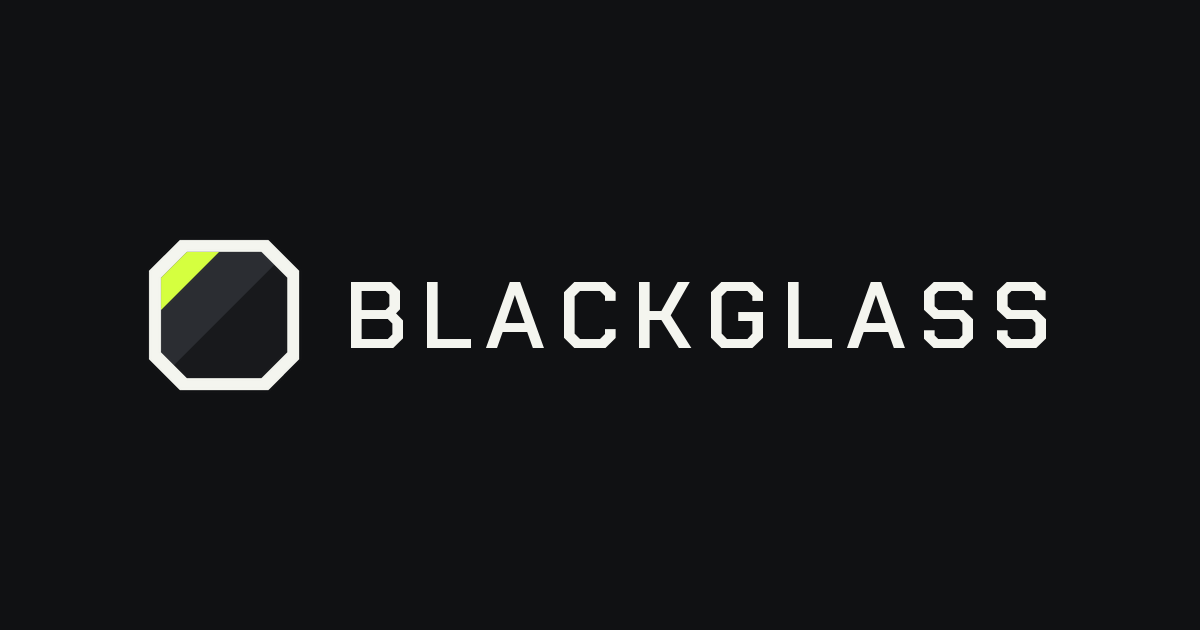
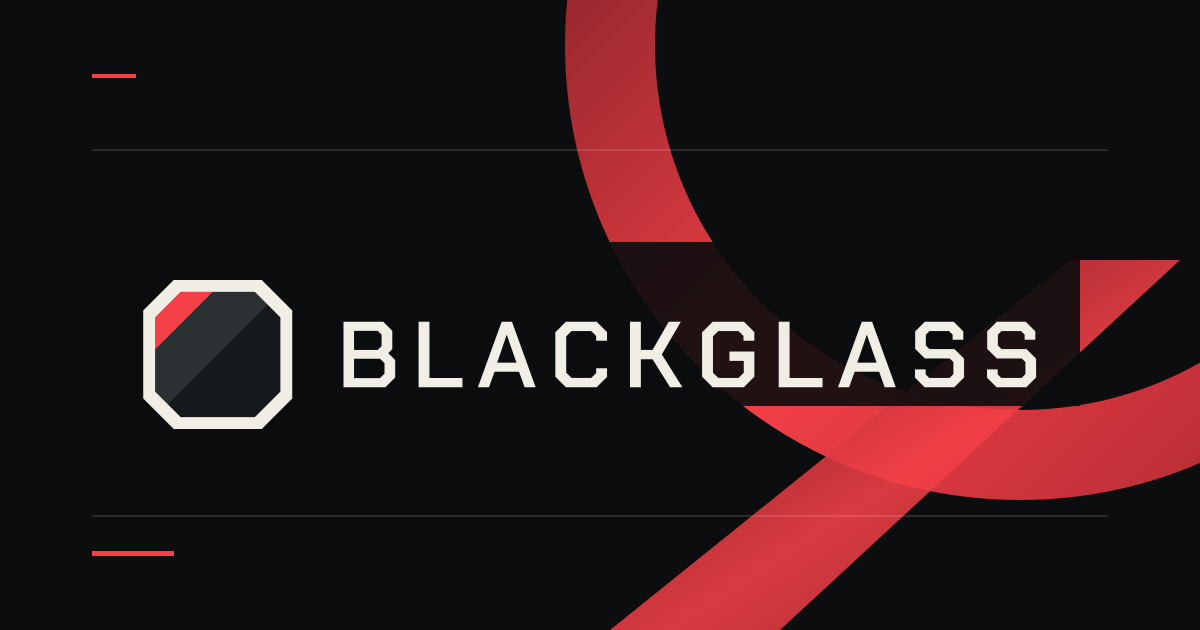
Bring Blackglass website into crimson poster system

Changed region(s): [[0.0925, 0.3619, 1.0, 1.0], [0.0925, 0.0, 0.8942, 0.3921], [0.0617, 0.8746, 0.1542, 0.9048]]

diff --git a/app/site.css b/app/site.css
@@ -35,7 +35,7 @@ a, button, summary, [role="tab"], label { -webkit-tap-highlight-color: transpare
 
 /* ---- Type: five sizes ---- */
 .label { margin: 0; font: 500 var(--fs-label)/1.4 var(--font-mono); letter-spacing: var(--tr-label); text-transform: uppercase; color: var(--fg-3); }
-.display { font-weight: 600; font-size: var(--fs-display); line-height: 1.1; letter-spacing: var(--tr-display); text-transform: uppercase; }
+.display { font-weight: 750; font-size: var(--fs-display); line-height: .98; letter-spacing: -.035em; text-transform: uppercase; }
 .title { font-weight: 500; font-size: var(--fs-title); line-height: 1.3; letter-spacing: -.01em; }
 .monument { font-weight: 800; font-size: var(--fs-monument); line-height: .8; letter-spacing: var(--tr-monument); font-variant-numeric: tabular-nums; }
 .body-2 { color: var(--fg-2); max-width: 40em; }
@@ -57,7 +57,8 @@ a, button, summary, [role="tab"], label { -webkit-tap-highlight-color: transpare
 
 /* Section header: 01 — TITLE ———— meta */
 .sh { display: flex; align-items: center; gap: 12px; margin: 0 0 clamp(24px, 4vw, 40px); }
-.sh-i { color: var(--fg); }
+.sh-i { color: var(--c-volt); }
+.paper .sh-i { color: var(--fg); }
 .sh-dash { width: 16px; border-top: var(--hair) solid var(--rule-strong); }
 .sh-rule { flex: 1; min-width: 24px; border-top: var(--hair) solid var(--rule); }
 .sh-meta { white-space: nowrap; }
@@ -73,7 +74,7 @@ a, button, summary, [role="tab"], label { -webkit-tap-highlight-color: transpare
 
 /* ---- Actions ---- */
 .btn { position: relative; isolation: isolate; display: inline-flex; align-items: center; justify-content: space-between; gap: 18px; min-height: 48px; padding: 0 20px; border: 0; background: none; color: var(--fg); cursor: pointer; text-decoration: none; white-space: nowrap;
-  font: 600 .8125rem/1 var(--font-sans); letter-spacing: .06em; text-transform: uppercase; -webkit-tap-highlight-color: transparent; transition: transform var(--t-drive) var(--ease-expo); }
+  font: 750 .8125rem/1 var(--font-sans); letter-spacing: .035em; text-transform: uppercase; -webkit-tap-highlight-color: transparent; transition: transform var(--t-drive) var(--ease-expo); }
 .btn::before, .btn::after { content: ""; position: absolute; z-index: -1; clip-path: var(--chamfer); }
 .btn::before { inset: 0; }
 .btn .arrow { width: 14px; height: 14px; flex: none; transition: transform var(--t-drive) var(--ease-expo); }
@@ -90,9 +91,10 @@ a, button, summary, [role="tab"], label { -webkit-tap-highlight-color: transpare
 .btn:active::before, .btn[data-press]::before { transform: none; }
 .btn:active .arrow, .btn[data-press] .arrow { transform: translate(4px, -4px); }
 .btn:active .arrow-down, .btn[data-press] .arrow-down { transform: rotate(90deg) translate(4px, -4px); }
-/* Chamfered fill: volt on Glass, ink on Paper (the --action token switches with the ground). */
+/* Chamfered fill: crimson on Glass, ink on Paper (the --action token switches with the ground). */
 .btn-primary { color: var(--on-action); }
 .btn-primary::before { background: var(--action); }
+.btn-primary::after { inset: 0; pointer-events: none; background: linear-gradient(128deg, transparent 78%, rgba(255, 255, 255, .17) 78% 80%, transparent 80%); }
 /* Hairline chamfer. */
 .btn-ghost::before { background: var(--rule-strong); transition: background-color var(--t-load) var(--ease-load); }
 .btn-ghost::after { inset: var(--hair); background: var(--ground); --cut: 9.6px; }
@@ -118,6 +120,7 @@ a, button, summary, [role="tab"], label { -webkit-tap-highlight-color: transpare
 
 /* ---- Header ---- */
 .hdr { position: sticky; top: 0; z-index: 70; display: flex; align-items: center; gap: 16px; height: 64px; padding: 0 var(--gutter); background: var(--c-glass); border-bottom: var(--hair) solid var(--rule); }
+.hdr::before { content: ""; position: absolute; left: var(--gutter); bottom: -1px; width: 42px; height: 2px; background: var(--c-volt); }
 .hdr-brand { display: block; margin-right: auto; }
 .hdr-brand img { height: 22px; width: auto; }
 .hdr-mark { display: none; }
@@ -194,7 +197,7 @@ a, button, summary, [role="tab"], label { -webkit-tap-highlight-color: transpare
 .msg { position: relative; margin-top: 20px; padding: 16px 18px 16px 20px; background: var(--c-facet); }
 .msg::before { content: ""; position: absolute; left: 0; top: 0; bottom: 0; width: 2px; background: var(--c-volt); transform-origin: 50% 0; }
 .msg.error::before { background: var(--c-danger); }
-/* Set logged: only after the server confirms (site.js adds .is-ok), the volt rule locks in top to bottom. */
+/* Set logged: only after the server confirms (site.js adds .is-ok), the signal rule locks in top to bottom. */
 @media (prefers-reduced-motion: no-preference) { .msg.is-ok::before { animation: lock-in var(--t-drive) var(--ease-expo) both; } }
 @keyframes lock-in { from { transform: scaleY(0); } }
 .msg p { margin: 0; }
@@ -333,8 +336,9 @@ a, button, summary, [role="tab"], label { -webkit-tap-highlight-color: transpare
 .crumbs a { color: var(--fg-3); text-decoration: none; }
 .crumbs a:hover { color: var(--fg); }
 .spec .actions { margin-top: 8px; }
-.page-hero { padding: clamp(56px, 9vw, 120px) 0 clamp(48px, 7vw, 88px); border-bottom: var(--hair) solid var(--rule); }
-.page-hero h1 { margin: 0 0 24px; max-width: 22em; font-size: clamp(2.25rem, 1rem + 4vw, 4.25rem); font-weight: 650; line-height: .98; letter-spacing: -.012em; }
+.page-hero { position: relative; isolation: isolate; overflow: hidden; padding: clamp(56px, 9vw, 120px) 0 clamp(48px, 7vw, 88px); border-bottom: var(--hair) solid var(--rule); }
+.page-hero::before { content: ""; position: absolute; z-index: -1; top: -390px; right: -260px; width: 720px; height: 720px; border: 72px solid var(--c-volt); border-radius: 50%; opacity: .13; pointer-events: none; }
+.page-hero h1 { margin: 0 0 24px; max-width: 22em; font-size: clamp(2.25rem, 1rem + 4vw, 4.25rem); font-weight: 800; line-height: .91; letter-spacing: -.045em; text-transform: uppercase; }
 /* The paid page is never quieter than home. */
 [data-page="coaching"] .page-hero h1 { font-size: clamp(2.625rem, 1.2rem + 5.2vw, 5.25rem); }
 .split { display: grid; gap: 48px; }
@@ -456,6 +460,7 @@ html:not(.js) .pc-t { color: var(--fg); }
     linear-gradient(to bottom right, transparent calc(50% - .25px), var(--line) calc(50% - .25px), var(--line) calc(50% + .75px), transparent calc(50% + .75px)) calc(100% + 1px) calc(100% + 1px) / 20px 20px no-repeat; }
 .offer-card > .spec-k { min-height: 32px; }
 .offer-card.paper { z-index: 61; } /* lifts the Paper card above the page grid (z 60): no hairline runs through it */
+.offer-card.paper::after { content: ""; position: absolute; top: 0; right: 0; width: 36%; height: 8px; background: var(--c-volt); clip-path: polygon(10% 0, 100% 0, 100% 100%, 0 100%); }
 .offer-steps-short { margin: 24px 0 0; color: var(--fg-2); }
 @media (max-width: 899.98px) { .offer-steps { display: none; } }
 @media (min-width: 900px) { .offer-steps-short { display: none; } }
@@ -587,7 +592,7 @@ html:not(.js) .pc-t { color: var(--fg); }
   .gauge i { position: absolute; right: 0; height: var(--hair); width: 6px; background: rgba(255, 255, 255, .38); }
   .gauge i.M { width: 14px; background: rgba(255, 255, 255, .7); }
   .gauge-sq { position: fixed; z-index: 46; right: 40px; top: 50%; display: block; width: var(--signal-size); height: var(--signal-size); translate: 0 -3px; background: var(--c-volt); outline: var(--hair) solid var(--c-glass); pointer-events: none; transition: transform var(--t-drive) var(--ease-expo), opacity var(--t-snap); }
-  /* One volt per viewport: the square rests while the hero, the reel or the closer holds the screen. */
+  /* One signal per viewport: the square rests while the hero, the reel or the closer holds the screen. */
   .gauge-sq[data-quiet], html[data-reel-in] .gauge-sq { opacity: 0; }
 }
 
@@ -614,8 +619,8 @@ html:not(.js) .pc-t { color: var(--fg); }
 /* ---- Motion. Content is complete on first paint: nothing waits to be revealed, nothing moves on load or on
    scroll. Motion answers the visitor (hover, focus, a tab, a page change) or lives in the showreel. ---- */
 
-/* Hero screen (1100px and up). Still, in full colour, cropped below its own volt button so the hero's one volt is
-   the real action. The headline is set large enough that the two columns meet with no void between them. */
+/* Hero screen (1100px and up). Still, in full colour, cropped below its own app button. The headline is set
+   large enough that the two columns meet with no void between them. */
 .hero { position: relative; overflow: hidden; }
 @media (min-width: 1100px) {
   .hero { padding: clamp(56px, 6vw, 88px) 0; }
@@ -630,6 +635,34 @@ html:not(.js) .pc-t { color: var(--fg); }
    the LCP image is painted from the first frame; no JavaScript involved. */
 @keyframes pane-drive { from { transform: translateX(24px); } }
 @media (min-width: 1100px) and (prefers-reduced-motion: no-preference) { .hero-pane .pane-glass { animation: pane-drive var(--t-load) var(--ease-load) both; } }
+
+/* Poster field: one engineered crimson arc and one diagonal plane. Both sit behind the actual app screen and copy.
+   The rest of the reference's tiny marks become a single factual rail, so the page stays legible on phones. */
+.hero { isolation: isolate; background: var(--c-glass); border-bottom: var(--hair) solid var(--rule); }
+.hero::before { content: ""; position: absolute; z-index: -1; top: -26vw; right: -15vw; width: min(88vw, 1120px); aspect-ratio: 1; border-radius: 50%; pointer-events: none;
+  background: radial-gradient(circle, var(--c-glass) 0 55%, transparent 55.2%), linear-gradient(142deg, #671c23 0%, var(--c-volt) 45%, #a52831 100%); }
+.hero::after { content: ""; position: absolute; z-index: -1; right: -8vw; bottom: -12vw; width: 60vw; height: 34vw; pointer-events: none; opacity: .82;
+  clip-path: polygon(72% 0, 84% 0, 19% 100%, 0 100%); background: linear-gradient(115deg, var(--c-ember), var(--c-volt)); }
+.hero-grid { position: relative; z-index: 1; }
+.hero-kicker { margin: 0 0 24px; color: var(--fg-2); }
+.hero-kicker span { margin-right: 12px; color: var(--c-volt); font-weight: 700; letter-spacing: -.08em; }
+.hero h1 { max-width: 11ch; font-weight: 850; line-height: .86; letter-spacing: -.058em; text-transform: uppercase; }
+.hero .body-2 { max-width: 36ch; }
+.poster-rail { position: relative; z-index: 1; display: flex; align-items: center; justify-content: space-between; gap: 24px; padding-top: 16px; padding-bottom: 16px; margin-top: clamp(38px, 6vw, 80px);
+  border-top: var(--hair) solid var(--rule-strong); color: var(--fg-2); }
+.poster-rail span:first-child { color: var(--fg); }
+.poster-rail span:last-child { color: var(--c-volt); font-weight: 700; font-size: 1rem; letter-spacing: -.1em; }
+.hero-pane .pane-glass { background: linear-gradient(140deg, var(--c-volt), var(--c-facet) 15%); }
+@media (max-width: 1099.98px) {
+  .hero::before { top: -42vw; right: -49vw; width: 105vw; opacity: .8; }
+  .hero::after { right: -30vw; bottom: -28vw; width: 90vw; height: 60vw; opacity: .42; }
+}
+@media (max-width: 599.98px) {
+  .hero::before { top: -62vw; right: -72vw; width: 140vw; opacity: .6; }
+  .hero::after { right: -55vw; bottom: -42vw; width: 130vw; height: 80vw; opacity: .25; }
+  .hero h1 { font-size: clamp(2.8rem, 11.7vw, 4.3rem); max-width: 10ch; }
+  .poster-rail span:nth-child(2) { display: none; }
+}
 
 /* Phone action bar (components/site/chrome.tsx StickyCta, site.js). Drives in, loads out, never covers the fork,
    a form or the footer. Hidden without JavaScript and from 900px. */

diff --git a/app/tokens.css b/app/tokens.css
@@ -11,16 +11,16 @@
 
 :root {
   /* Palette. Signal colours are used in small doses: one loud colour per viewport. */
-  --c-glass: #101113;   /* home ground */
-  --c-pane: #18191c;    /* black-glass objects, raised surfaces */
-  --c-facet: #2b2d32;   /* the lit facet; object frames on Glass */
-  --c-bone: #f4f5ef;    /* text on Glass; the specular edge */
-  --c-bone-2: #c3c6c0;  /* body text on Glass, 10.9:1 */
-  --c-bone-3: #a4a9ae;  /* labels on Glass, 8.0:1 */
+  --c-glass: #0b0d0e;   /* poster-black ground */
+  --c-pane: #15191b;    /* black-glass objects, raised surfaces */
+  --c-facet: #2b3032;   /* the lit facet; object frames on Glass */
+  --c-bone: #f1eee6;    /* warm printed bone on Glass */
+  --c-bone-2: #c8c6c0;  /* body text on Glass */
+  --c-bone-3: #aaa9a4;  /* labels on Glass */
   --c-paper: #eceae3;   /* the counter-surface: warm bone, ink 15.7:1 */
   --c-ink-2: #45484d;   /* body text and labels on Paper, 7.6:1 */
-  --c-volt: #d5ff3f;    /* the signal: markers, active states, one line per frame. On Paper: fills inside ink only. */
-  --c-ember: #de7f4e;   /* rare: one moment per page. Fill only; never text on Paper (2.4:1). */
+  --c-volt: #f43f46;    /* crimson signal: actions, active states and one graphic form per view. */
+  --c-ember: #b72f36;   /* deeper red for tonal artwork; never a second signal. */
   --c-danger: #ff8a80;  /* form errors on Glass */
 
   /* Ground: Glass. Sections set `.paper` to switch every semantic token below. */
@@ -29,9 +29,9 @@
   --fg: var(--c-bone);
   --fg-2: var(--c-bone-2);
   --fg-3: var(--c-bone-3);
-  --rule: rgba(244, 245, 239, .14);
-  --rule-strong: rgba(244, 245, 239, .32);
-  --grid: rgba(244, 245, 239, .04);
+  --rule: rgba(241, 238, 230, .17);
+  --rule-strong: rgba(241, 238, 230, .38);
+  --grid: rgba(241, 238, 230, .045);
   --signal: var(--c-volt);
   --action: var(--c-volt);     /* primary button fill */
   --on-action: var(--c-glass);
@@ -65,7 +65,7 @@
      - Drive (concentric): anything arriving, opening or answering the visitor moves at --t-drive with --ease-expo:
        it lands in 4–6 frames and locks. --ease-quart is kept for settles only.
      - Snap: a press, or a colour answering hover or focus, takes --t-snap. A press then releases at drive speed.
-     - Lockout: every move ends dead still. The volt square lands where a move completes.
+     - Lockout: every move ends dead still. The signal square lands where a move completes.
      Travel runs along the 45° facet vector or the reading axis. Nothing animates on first paint.
      Test for any new motion: name its load, its drive and its lockout, or cut it. */
   --t-load: 350ms;
@@ -84,16 +84,16 @@
   :root { --fs-label: .75rem; }
 }
 
-/* Paper: black-glass objects on warm bone. Volt appears only inside ink shapes here. */
+/* Paper: black-glass objects on warm bone. Crimson is used for graphic accents, never body text. */
 .paper {
   --ground: var(--c-paper);
   --surface: var(--c-glass);
   --fg: var(--c-glass);
   --fg-2: var(--c-ink-2);
   --fg-3: var(--c-ink-2);
-  --rule: rgba(16, 17, 19, .18);
-  --rule-strong: rgba(16, 17, 19, .42);
-  --grid: rgba(16, 17, 19, .045);
+  --rule: rgba(11, 13, 14, .18);
+  --rule-strong: rgba(11, 13, 14, .42);
+  --grid: rgba(11, 13, 14, .045);
   --action: var(--c-glass);
   --on-action: var(--c-bone);
   --focus: var(--c-glass);

diff --git a/app/page.tsx b/app/page.tsx
@@ -73,6 +73,7 @@ export default function Home() {
             {/* The section rule runs across both columns, tying the copy to the screen. */}
             <div className="hero-head"><SectionHead index="00" title="Strength training app" meta="Built in Dunedin" /></div>
             <div className="hero-copy">
+              <p className="hero-kicker label"><span aria-hidden="true">{"///"}</span> A clearer system for the work</p>
               <h1 id="hero-title" className="display">Know what today asks of you.</h1>
               <p className="body-2">Blackglass keeps your programme, today&rsquo;s session, how each movement should look and what you&rsquo;re eating in one clear place. Open it, see the work, get on with it.</p>
               <div className="actions">
@@ -93,6 +94,7 @@ export default function Home() {
             <Pane src="/assets/program.webp" className="hero-pane crop-train" priority media="(min-width: 1100px)" sizes="440px"
               alt="Blackglass Train screen: an active six-day strength programme, week 1 of 6, with Push, Pull and Legs days listed" />
           </div>
+          <div className="wrap poster-rail label" aria-hidden="true"><span>BG / 01</span><span>Programme / Session / Movement / Food</span><span>{"///"}</span></div>
         </section>
 
         <section className="section demo" id="how-it-works" aria-labelledby="how-title" data-sec>

diff --git a/content/brand.ts b/content/brand.ts
@@ -4,7 +4,7 @@
  * and social artwork so every rendering is the real logo.
  */
 export const lockupViewBox = "0 0 530.087 88";
-export const colours = { ground: "#101113", pane: "#18191C", facet: "#2B2D32", bone: "#F4F5EF", volt: "#D5FF3F", grey: "#8E949B", line: "#2A2C30" };
+export const colours = { ground: "#0B0D0E", pane: "#15191B", facet: "#2B3032", bone: "#F1EEE6", volt: "#F43F46", grey: "#AAA9A4", line: "#2B3032" };
 export const paths = {
   pane: "M7.000 22.101 L22.101 7.000 L65.899 7.000 L81.000 22.101 L81.000 65.899 L65.899 81.000 L22.101 81.000 L7.000 65.899 Z",
   facet: "M73.450 14.550 L65.899 7.000 L22.101 7.000 L7.000 22.101 L7.000 65.899 L14.550 73.450 Z",

diff --git a/app/layout.tsx b/app/layout.tsx
@@ -21,7 +21,7 @@ export const metadata: Metadata = {
   },
 };
 
-export const viewport: Viewport = { themeColor: "#101113", colorScheme: "dark" };
+export const viewport: Viewport = { themeColor: "#0b0d0e", colorScheme: "dark" };
 
 // Runs before first paint: marks that scripts run, so no-JS visitors get the complete static page. On a
 // cross-document view transition it also names the arriving page's preview button "cta", so the tapped /get button

diff --git a/docs/MAINTAINING.md b/docs/MAINTAINING.md
@@ -47,14 +47,13 @@ The direction, the refs it draws on and the rules are in `design/DESIGN_LANGUAGE
 
 - **Tokens:** `app/tokens.css` is the only place values live (colour, type, spacing, hairlines, motion). `site.css`, the admin styles and the shadcn variables in `globals.css` all read from it. Change a value there, never on top of it.
 - **Grounds:**
-  - **Glass** (`#101113`) is home.
+  - **Glass** (`#0B0D0E`) is home.
   - **Paper** (`#ECEAE3`, add `class="paper"` to a section) is for one or two feature sections per page. It switches every semantic token and adds a 3% grain.
-  - On Paper, volt only ever appears inside ink shapes (it's 1.04:1 against Paper).
+  - On Paper, crimson is a graphic accent. Text and actions use ink.
 - **Signal colours:**
-  - **Volt** is for primary buttons on Glass, markers and active states.
-  - **Ember** (`#DE7F4E`) is one moment per page and fill only. The showreel doesn't use it (it would share a frame with volt).
-  - Never have both loud in one viewport.
-- **Type:** Inter Tight and Geist Mono, five sizes only: label (mono, uppercase, +0.12em), body, title, display (semibold 600, uppercase, +0.04em; the home h1 is heavier and tighter) and monument (heavy numerals, one per viewport).
+  - **Crimson** (`#F43F46`) is for primary buttons on Glass, markers and a single large structural form in the home hero.
+  - The deeper red (`#B72F36`) is a tonal part of the same form, not a second signal.
+- **Type:** Inter Tight and Geist Mono, five sizes only: label (mono, uppercase, +0.12em), body, title, display (heavy, tight and uppercase) and monument (heavy numerals, one per viewport).
 - **Annotation vocabulary:** only four marks are used. Each must point at something real, and there are at most three per viewport.
   1. Hairline rule.
   2. Tick scale. The desktop scroll gauge counts as one tick scale, including its marker.
@@ -62,7 +61,7 @@ The direction, the refs it draws on and the rules are in `design/DESIGN_LANGUAGE
   4. 6px signal square (`Signal`).
 - **Corners:** square, or 45° chamfers (`--chamfer`). No rounded corners.
 - **Components** (`components/site/ui.tsx`):
-  - `Button` (primary: volt on Glass, ink on Paper; ghost: hairline chamfer)
+  - `Button` (primary: crimson on Glass, ink on Paper; ghost: hairline chamfer)
   - `TextLink` (the hairline draws on hover)
   - `SectionHead` (`01 — TITLE ———— meta`)
   - `SpecCard` (label–value rows)
@@ -94,11 +93,11 @@ The direction, the refs it draws on and the rules are in `design/DESIGN_LANGUAGE
   - **Demo tabs:** one shared indicator (a hairline and the volt square) drives to the chosen tab. The incoming screen drives in 24px along the direction of travel on top of the outgoing one, whose frame stays until it lands, so the pane is never empty (checked frame by frame at 60 fps). All three panels share one grid cell, so nothing below moves. A horizontal swipe on the screen steps the tabs. Without JavaScript all three screens show; with reduced motion the swap is instant.
   - **Demo screens:** no demo image loads with the first paint: every panel ships as `data-src` (`Pane defer`, so the Inter font gets the bandwidth) and `site.js` loads them after the load event once the demo is within about 600px, or on the first touch of the tabs. Loading never waits for hydration, so tab switches take the same time with or without React. `.demo-tabs` has `min-height: 56px`: without it the fixed stage height set by `fit()` collapses the tab grid track on phones. `fit()` follows the active panel on phones only; on desktop the stage keeps the tallest panel's height and the short Learn card is centred in it (`.js .demo-panel[data-demo-panel="technique"]`). `html[data-sticky-on]` already sets `scroll-padding-bottom: 88px`, so nothing focused scrolls under the bar. On phones the focus ring sits on the screen, not the panel (the panel's edge is under the sticky bar). A swap waits for the incoming image to decode, capped at 300 ms.
   - **FAQ:** a 32px hairline box with a plus that becomes a minus. The answer's height drives open; closing fades the words first (`--t-snap`), then loads the height down (`interpolate-size`, Chromium; other browsers snap open). This is the site's one layout animation.
-  - **Form success:** after the server confirms, the confirmation replaces the form and takes focus, and its volt rule locks in top to bottom (`.msg.is-ok`). Failures never animate; the email fallback is a ghost button.
+  - **Form success:** after the server confirms, the confirmation replaces the form and takes focus, and its signal rule locks in top to bottom (`.msg.is-ok`). Failures never animate; the email fallback is a ghost button.
 - **Scroll gauge** (`public/site.js`, 1100px and wider): a still tick scale on the right edge, one major tick per `[data-sec]` section. The signal square steps to the section in view at drive speed. Decorative, and hidden from assistive tech.
 - **Phone action bar** (`StickyCta` in `components/site/chrome.tsx`, below 900px): on the home page (preview list and coaching) and `/coaching` (enquire). It sits right after the header in the DOM, so keyboard users reach it early. It drives in once the hero has left view and loads out for good at the page's decision point (the fork, or the enquiry form): two state changes per page. It steps aside only while a reel control is under it, and moves focus to the page if it hides while focused. It ships `hidden`, so without JavaScript it isn't shown.
 - **Phone menu:** while open, `main`, the footer, the phone bar and the rest of the header are `inert`, so Tab stays in the sheet.
-- **Volt discipline:** the gauge square rests while the hero, the reel or the closer holds the screen (each has its own volt). Screens sit above the column grid (`.pane-glass` z-index 61); the header and phone bar sit above screens (70). The hero screen's own volt is muted beside the real CTA and returns to full colour on hover.
+- **Signal discipline:** the gauge square rests while the hero, the reel or the closer holds the screen. Screens sit above the column grid (`.pane-glass` z-index 61); the header and phone bar sit above screens (70). The hero screen's own app accent is muted beside the real CTA and returns to full colour on hover.
 - **Colophon clock:** the footer shows the current time in Dunedin (`data-clock`), updated to the minute.
 - **Hero screen** (1100px and wider): the real Train screen in a `Pane`, the hero's one dominant shape (the demo opens on Today, so no screen repeats; the Technique screen is never used in the hero). It uses `Pane`'s `media` prop, so phones never fetch it and their LCP stays the headline.
 - **Screens:** the Android status bar and nav bar are cropped off every `Pane` in CSS (`.pane-glass img`, 720/1400). Remove the crop once the screens are re-captured cleanly. Repeated screens show a crop (source rows of the 720x1560 files, `object-position = top / (1560 - height)`): hero Train 488-1256 (ends between plan rows 05 and 06; the edit pencil sits at the left of rows 03-04 and cannot be cropped out without a re-capture), Learn is no longer a screen crop: the demo shows the app's phase control as three chips (`.phase-card`: BRACE / REACH / RETURN, no image, no exercise name, no button), because no contiguous crop of the guide is free of the exercise name, the volt button or the wheel, the demo Train screen 72-1252 (`crop-plan`, 720/1180, ends under plan row 05), and Today on phones 72-1240 (ends under "Log food"). Demo images use `srcset` with the 480w and 720w files and a `sizes` that matches the pane's slot; screens behind the other tabs are deferred (`data-src`) and warmed near the demo.

diff --git a/design/DESIGN_LANGUAGE.md b/design/DESIGN_LANGUAGE.md
@@ -1,4 +1,18 @@
-# Blackglass design language: phase 0 (audit and direction)
+# Blackglass design language
+
+## Current direction: poster system (September 2026)
+
+The current website takes its visual direction from the Blackglass crimson-horizon and Accelerate Everything posters. It uses poster-black `#0B0D0E`, warm bone `#F1EEE6`, and one crimson signal `#F43F46`. The deeper red `#B72F36` shades the same graphic form. `app/tokens.css` is authoritative for the implemented values.
+
+- Give the home hero a compact, heavy, uppercase headline and one red disc/diagonal structure. Use generous black space and small factual editorial labels.
+- Keep primary actions crimson on Glass and ink on Paper. Do not set long text in crimson on Paper.
+- Keep the real app captures unfiltered and the release status and coaching offer truthful. Graphic forms are decoration, never evidence of a feature or result.
+- Use the existing wordmark paths and Inter Tight/Geist Mono. The poster typography is translated into weight, tracking, and layout; do not substitute a lookalike logo or add an unlicensed display font.
+- Preserve reduced-motion behavior and working no-JavaScript paths.
+
+## Previous direction: phase 0 audit and decisions
+
+The following is an archive of the original approved phase 0 system and frames. Its Volt/Ember palette and exclusions of the red disc have been superseded by the poster direction above.
 
 Status: **approved** (Ember `#DE7F4E`, Inter Tight kept, recommendations taken). Phases 1–3 are built. The style frames are in `design/frames/`. Rebuild them with `node design/frames/build.mjs`.
 

diff --git a/AGENTS.md b/AGENTS.md
@@ -11,7 +11,7 @@ Read `BLACKGLASS_HANDOFF.md` first, then `docs/MAINTAINING.md` and `docs/PUBLISH
   - The Android app is in development with no public download, and there is no iPhone app. Don't imply otherwise until `content/site.ts → app` has a real link.
   - Only describe features visible in `public/assets/` screens.
   - Don't invent testimonials, results, user numbers, qualifications or social handles.
-- **Design:** use the tokens and components in `app/site.css` and `components/site/`. Volt (`#D5FF3F`) is for primary actions and small markers only. Motion must honour reduced motion and work without JavaScript.
+- **Design:** use the tokens and components in `app/site.css` and `components/site/`. Crimson (`#F43F46`) is the signal for primary actions, small markers and restrained poster forms. Motion must honour reduced motion and work without JavaScript.
 - **Privacy:** don't copy enquiry data from the live database into tools or commits. Site measurement stays cookie-free daily counts (`db/events.ts`).
 
 ## Before committing

diff --git a/docs/FUNNEL.md b/docs/FUNNEL.md
@@ -20,7 +20,7 @@ The site must never imply the app can be bought or installed until `content/site
 3. **How it works:** two real screens (Today and Train), followed by a labeled illustration of the Learn phase control. Do not describe the illustration as a screenshot.
 4. **Why it helps** (Paper): the benefits, each tied to a real screen.
 5. **Choose your start:** the fork, side by side.
-   - **The app** is the free preview list, shown as a hairline panel with its three steps and a volt button.
+   - **The app** is the free preview list, shown as a hairline panel with its three steps and a crimson button.
    - **Coaching** is the heavier Paper panel: the monumental 59, what's included, an "Enquire" button, and "No payment is taken on this site".
    - The paid path carries the visual weight; the free path carries the colour.
 6. **Questions:** answers the objections.
